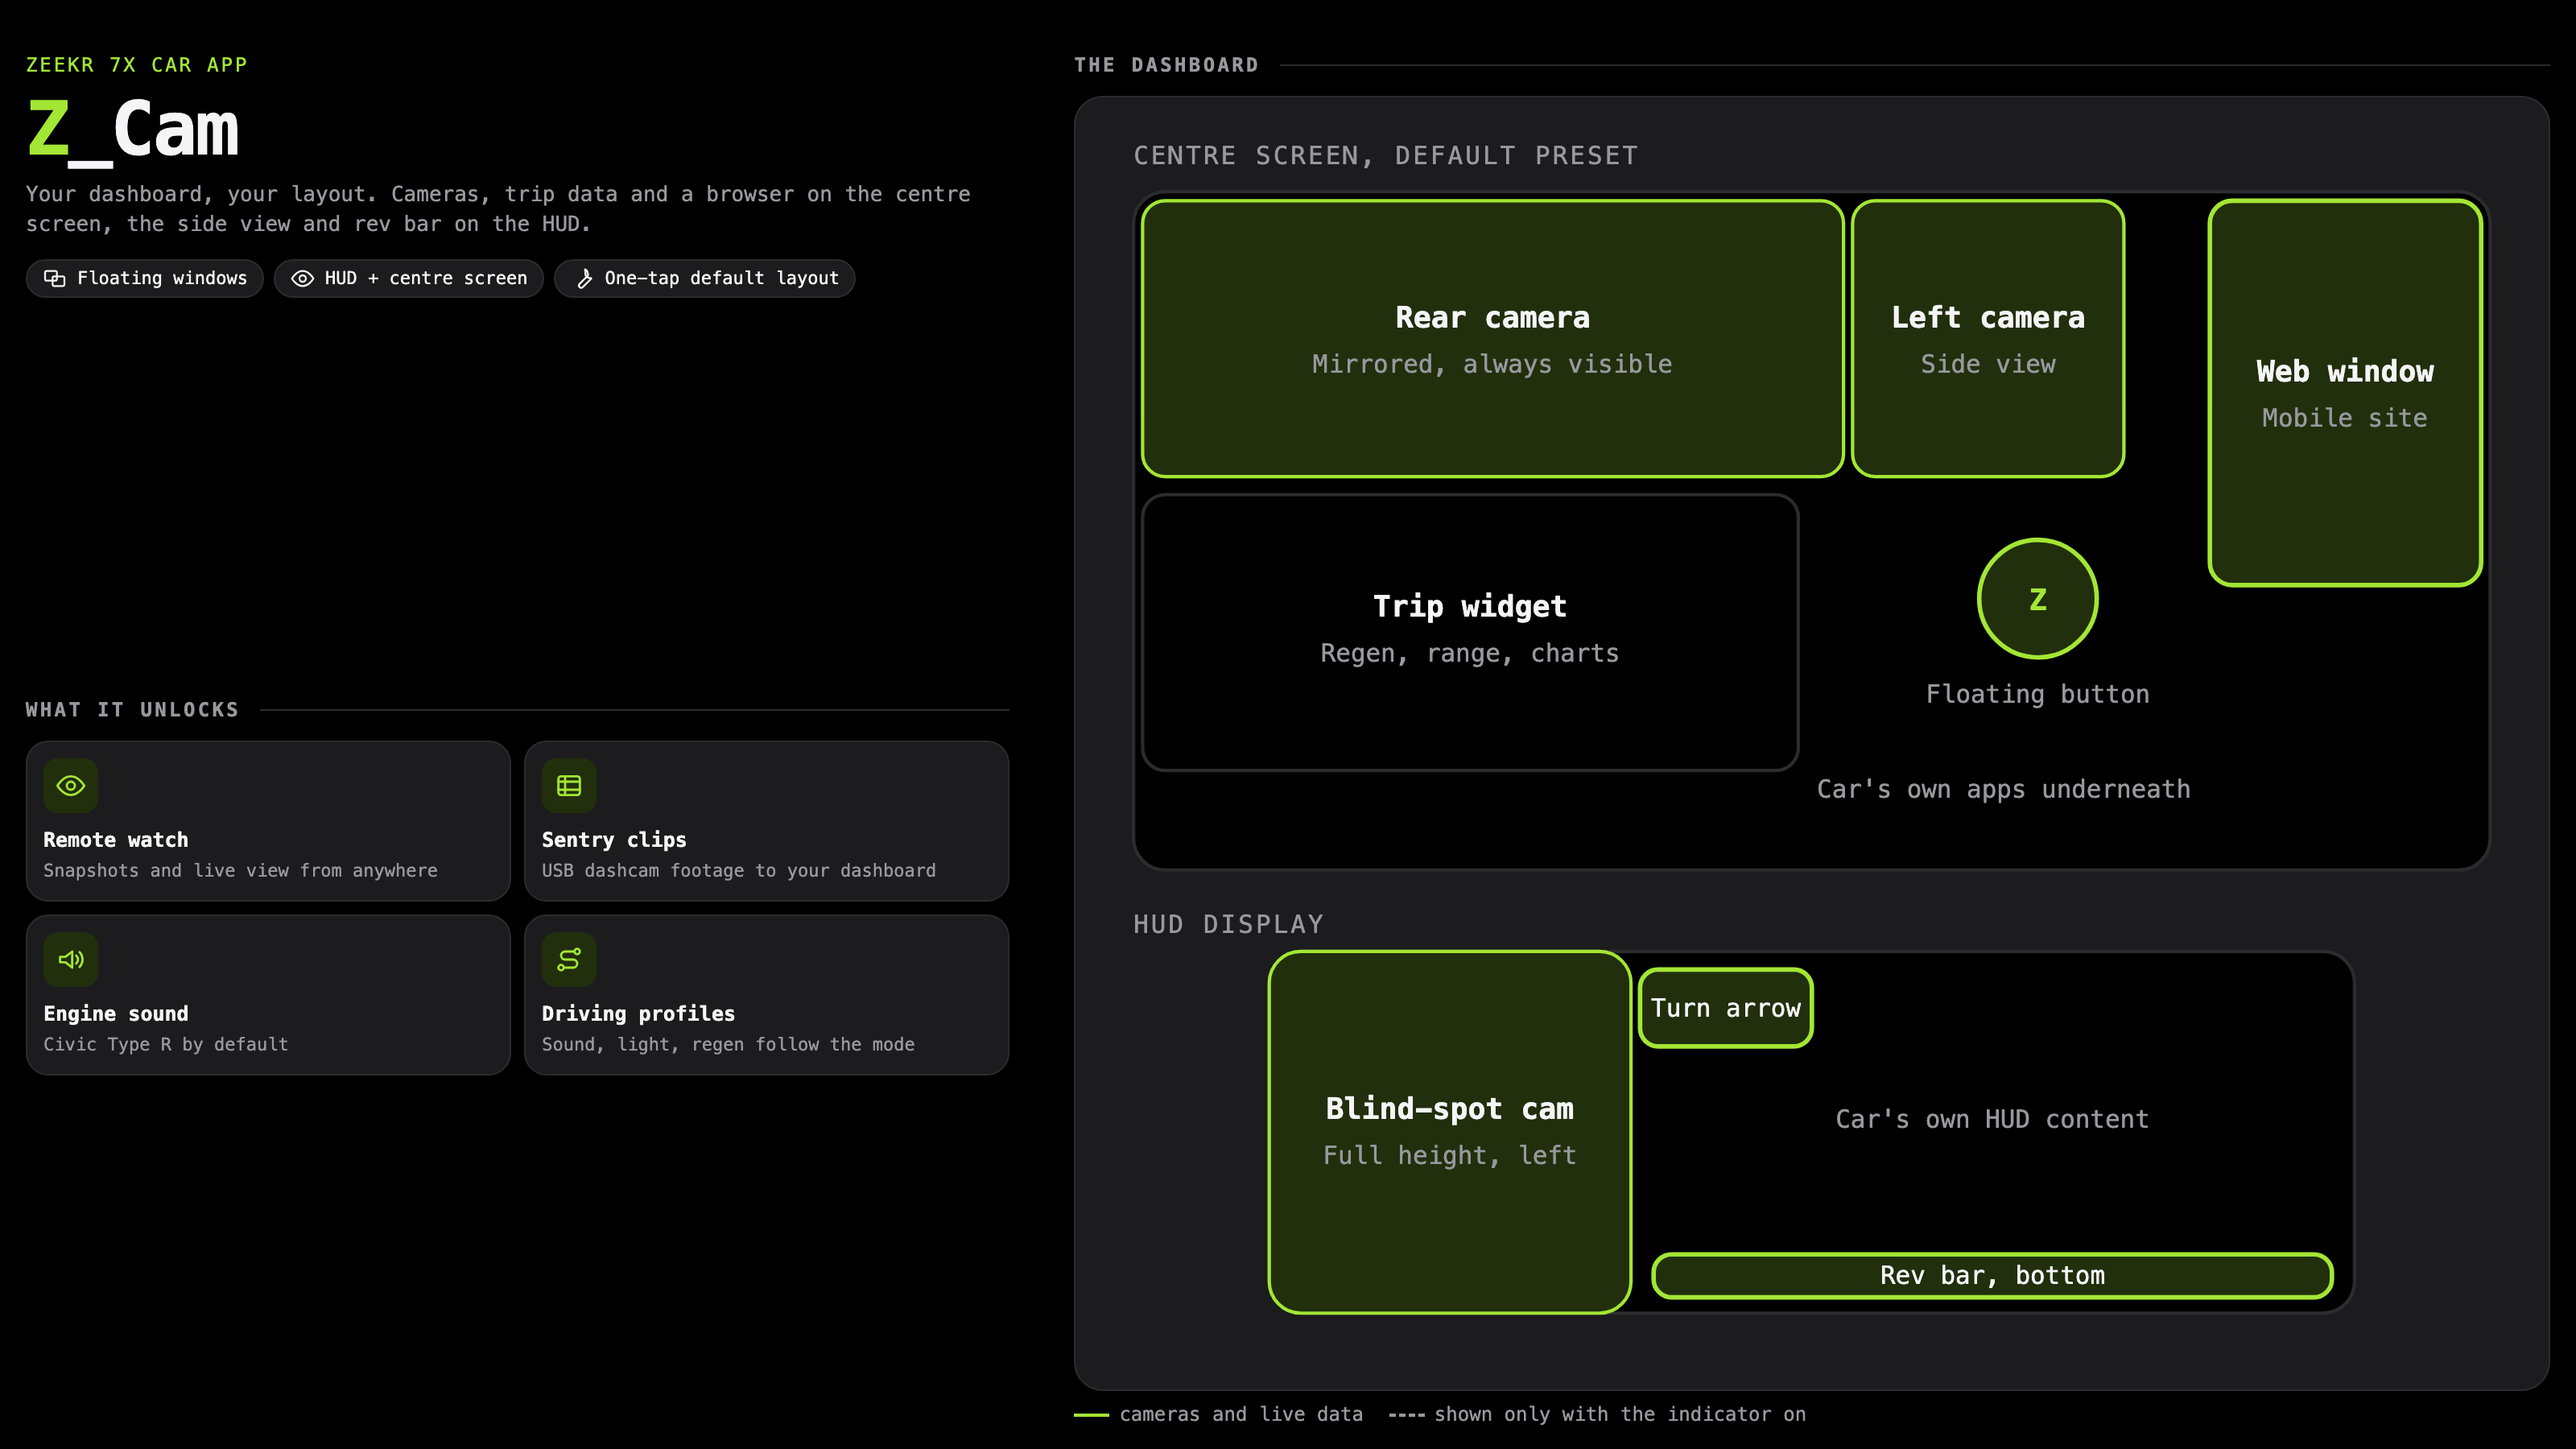
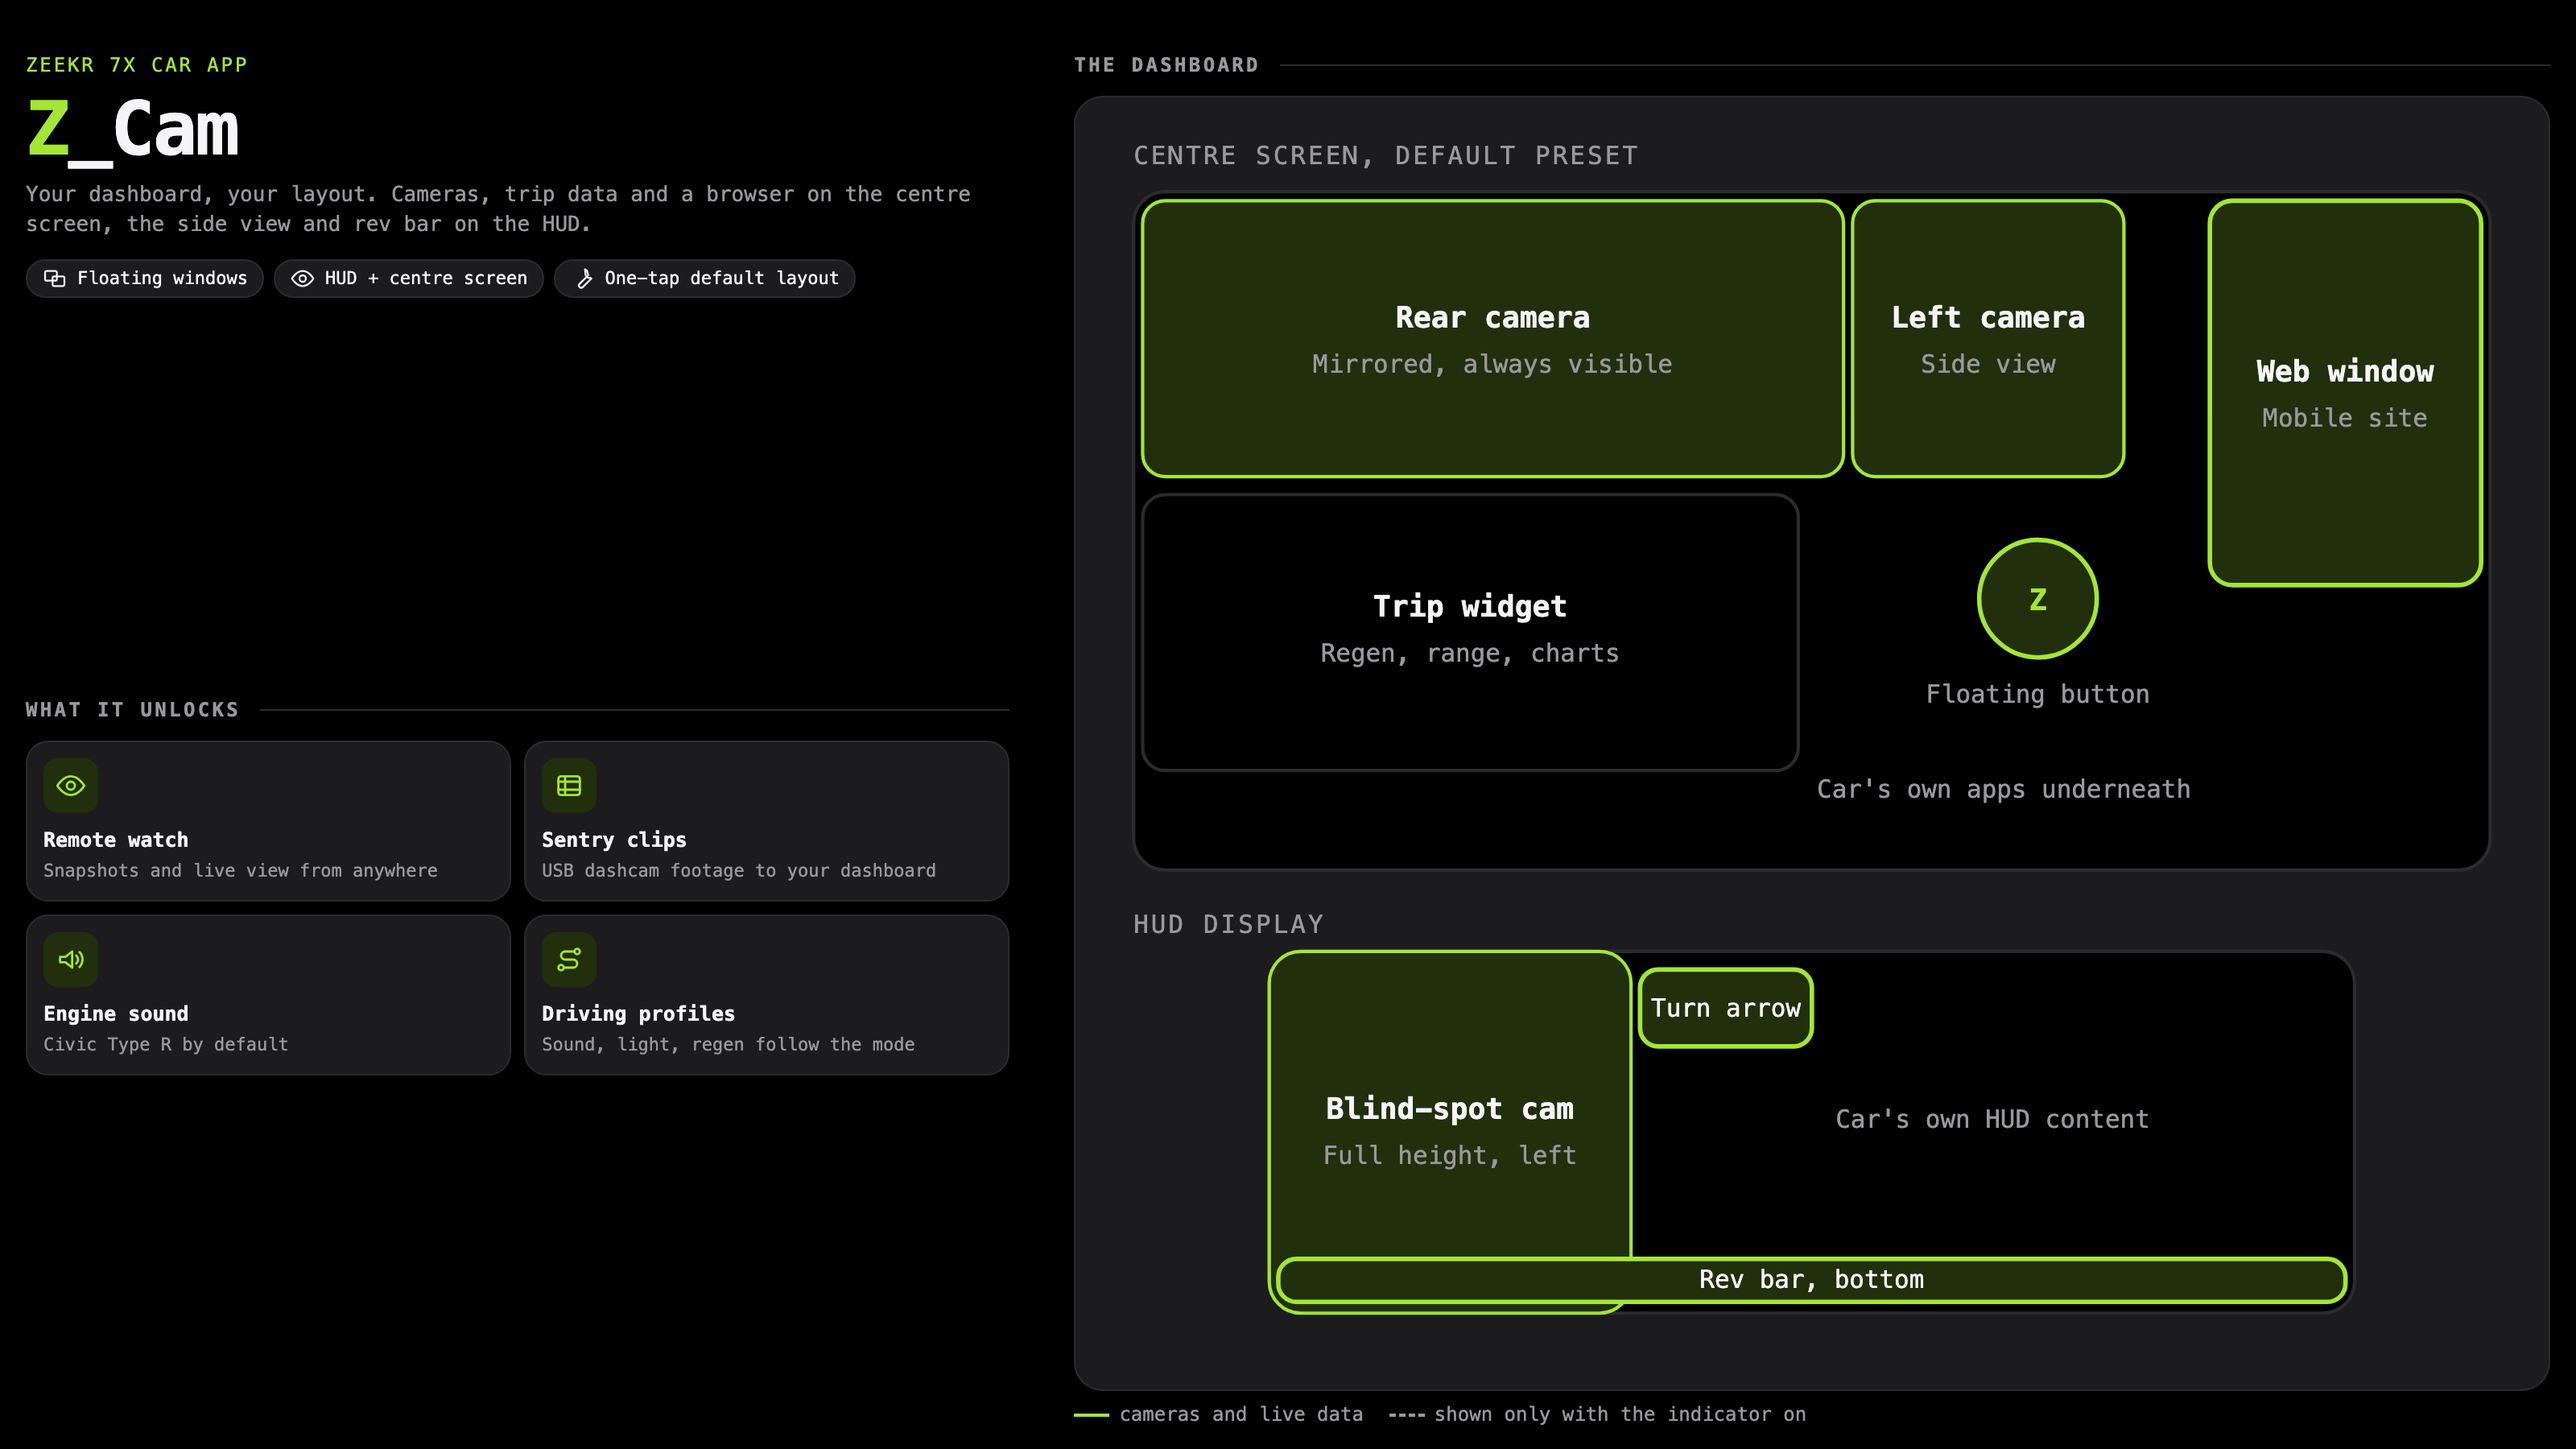
Dashboard wireframe: rev bar spans the whole HUD

Changed region(s): [[0.5, 0.84, 0.9375, 0.9022]]

diff --git a/docs/zcam-dashboard.html b/docs/zcam-dashboard.html
@@ -228,7 +228,7 @@ main.dash>footer{grid-column:1/-1!important;grid-row:3!important}
   <rect class="cam" x="80" y="372" width="160" height="160" rx="14"/><text x="160" y="446">Blind-spot cam</text><text class="s" x="160" y="466">Full height, left</text>
   <rect class="hub" x="244" y="380" width="76" height="34" rx="8"/><text class="s" x="282" y="401" style="fill:var(--fg)">Turn arrow</text>
   <text class="s" x="400" y="450">Car's own HUD content</text>
-  <rect class="hub" x="250" y="506" width="300" height="19" rx="8"/><text class="s" x="400" y="519" style="fill:var(--fg)">Rev bar, bottom</text>
+  <rect class="hub" x="84" y="508" width="472" height="19" rx="8"/><text class="s" x="320" y="521" style="fill:var(--fg)">Rev bar, bottom</text>
 </svg>
     </div>
     <div class="legend"><span><i></i>cameras and live data</span><span><i class="d"></i>shown only with the indicator on</span></div>
